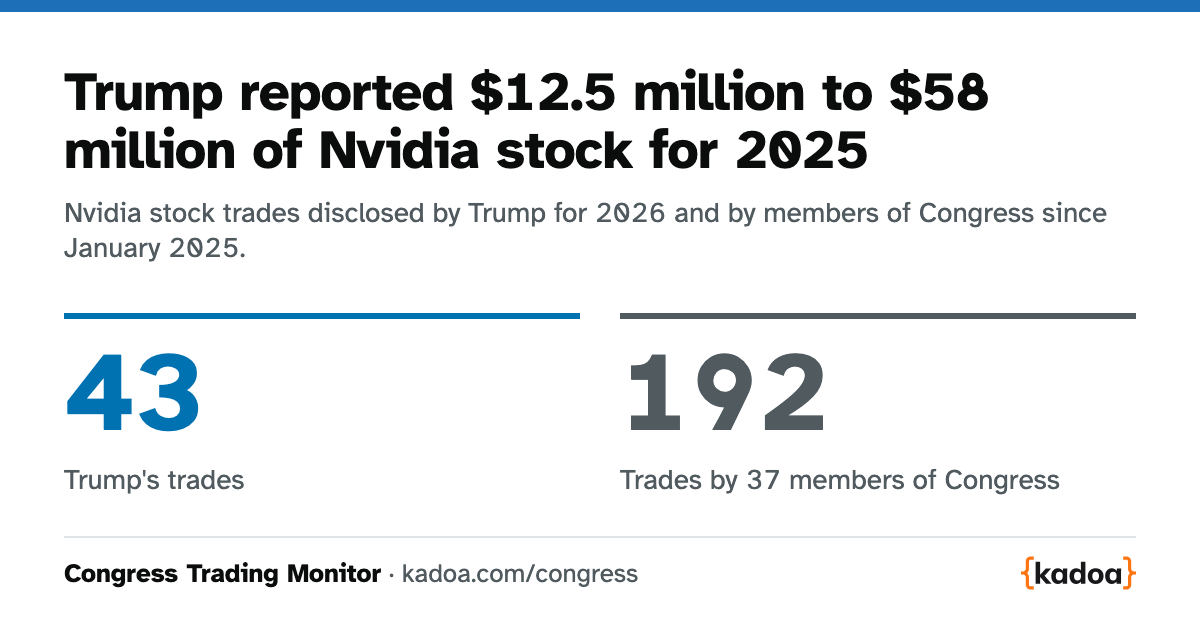
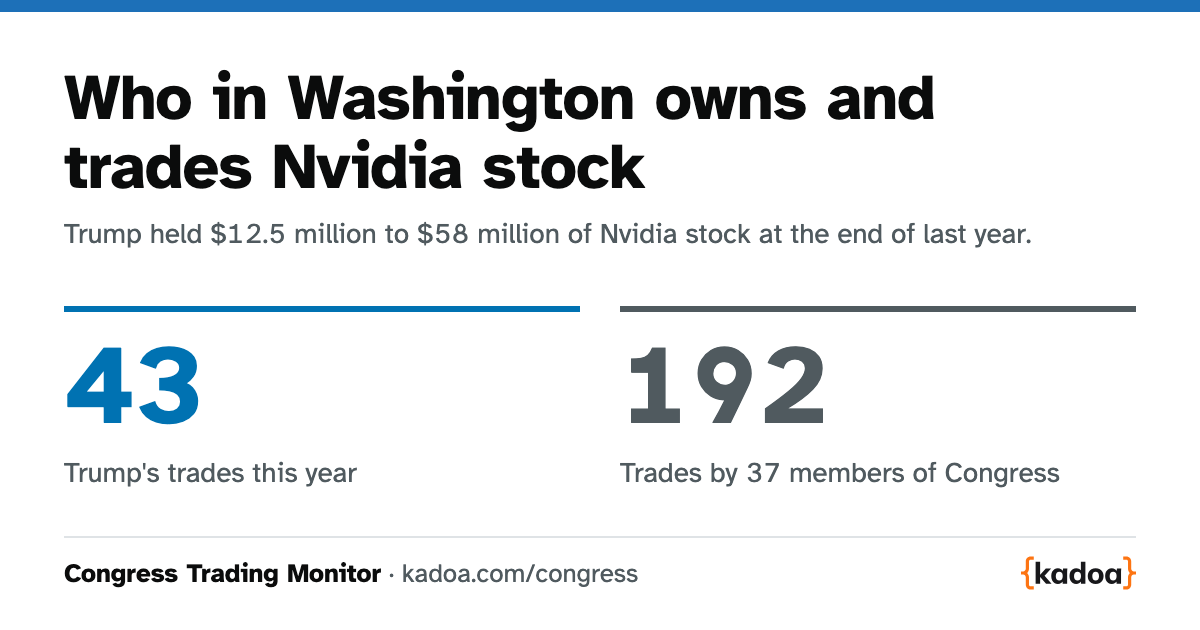
Nvidia insight: title on who owns and trades the stock, no year in the headline

diff --git a/src/components/NvidiaHuang.jsx b/src/components/NvidiaHuang.jsx
@@ -143,9 +143,9 @@ export default function NvidiaHuang() {
   const reportedBy = new Date(Date.parse(latest.date) - 45 * 864e5).toISOString().slice(0, 10);
   return (
     <>
-      <h1 className="dk-h1">Trump reported $12.5 million to $58 million of Nvidia stock for 2025</h1>
+      <h1 className="dk-h1">Who in Washington owns and trades Nvidia stock</h1>
       <p className="govuk-body-l">
-        His annual report lists Nvidia shares on {trump.holdings.length} lines, and his accounts traded the stock {trump.trades.length} times from January to {dayLong(lastTrump.date)}. Nvidia had fallen {Math.abs(pct(peak.close, beforeResign.close))}% from its {dayLong(peak.date)} high by 11 November, before Jensen Huang&apos;s resignation was announced. It closed another {Math.abs(pct(beforeResign.close, low.close))}% lower on 20 November, with quarterly results in between, and {pct(low.close, latest.close)}% higher on {dayLong(latest.date)}, after his reinstatement.
+        Trump&apos;s latest annual report lists {range(trump.held.low, trump.held.high)} of Nvidia stock at the end of last year, and his accounts traded the stock {trump.trades.length} times from January to {dayLong(lastTrump.date)}. Nvidia had fallen {Math.abs(pct(peak.close, beforeResign.close))}% from its {dayLong(peak.date)} high by 11 November, before Jensen Huang&apos;s resignation was announced. It closed another {Math.abs(pct(beforeResign.close, low.close))}% lower on 20 November, with quarterly results in between, and {pct(low.close, latest.close)}% higher on {dayLong(latest.date)}, after his reinstatement.
       </p>
       <p className="govuk-body">
         The board said it had input from senior levels of the US government, and Trump said he was represented at the board (<ExtLink href={REINSTATED}>MS NOW</ExtLink>). His reports so far cover trades up to {dayLong(lastTrump.date)}.

diff --git a/src/insights.js b/src/insights.js
@@ -3,10 +3,10 @@
 export const INSIGHTS = [
   {
     slug: "trump-nvidia",
-    title: "Trump reported $12.5 million to $58 million of Nvidia stock for 2025",
-    summary: "His accounts traded the stock 43 times from January to September 2026. 37 members of Congress traded it too.",
-    seoTitle: "Trump's Nvidia Stock and the Jensen Huang Reinstatement",
-    seoDescription: "Trump's annual report lists $12.5 million to $58 million of Nvidia shares, and his accounts traded it 43 times in 2026. Plus the 37 members of Congress who traded NVDA.",
+    title: "Who in Washington owns and trades Nvidia stock",
+    summary: "Trump held $12.5 million to $58 million of Nvidia at the end of last year and traded it 43 times since. 37 members of Congress traded it too.",
+    seoTitle: "Who in Washington Owns and Trades Nvidia Stock",
+    seoDescription: "Trump's Nvidia stock and 43 trades this year, and the 37 members of Congress who traded NVDA, around Jensen Huang's resignation and reinstatement.",
   },
   {
     slug: "congress-generations",
@@ -52,5 +52,5 @@ export const insightBySlug = (slug) => INSIGHTS.find((i) => i.slug === slug);
 // characters with the number first, so it fits a phone in one or two lines.
 export const ANNOUNCED = {
   slug: "trump-nvidia",
-  text: "$12.5M to $58M of Nvidia stock in Trump's 2025 report",
+  text: "Who in Washington owns and trades Nvidia stock",
 };
